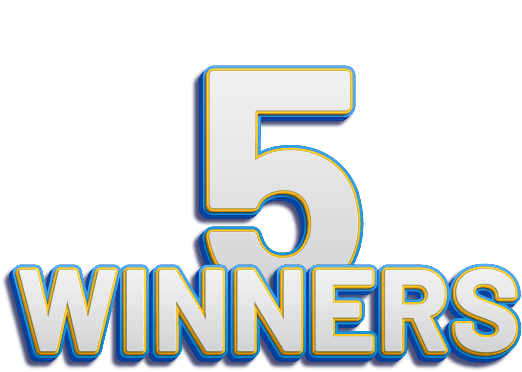
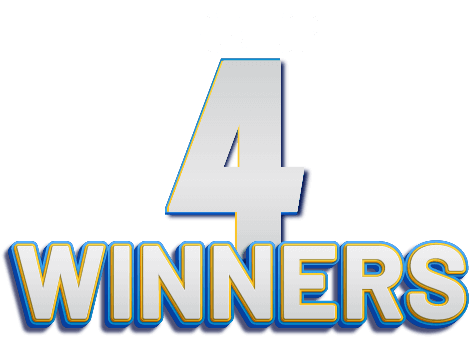
New images for top 4

Changed region(s): [[0.0299, 0.1479, 1.0, 0.9763]]

diff --git a/src/api/instance.js b/src/api/instance.js
@@ -12,3 +12,10 @@ const instance = axios.create({
 });
 
 export default instance;
+
+// h  - 2905 > 35
+// T = 896
+// tel - 737
+// e - 5097 > 60
+
+// 8443
